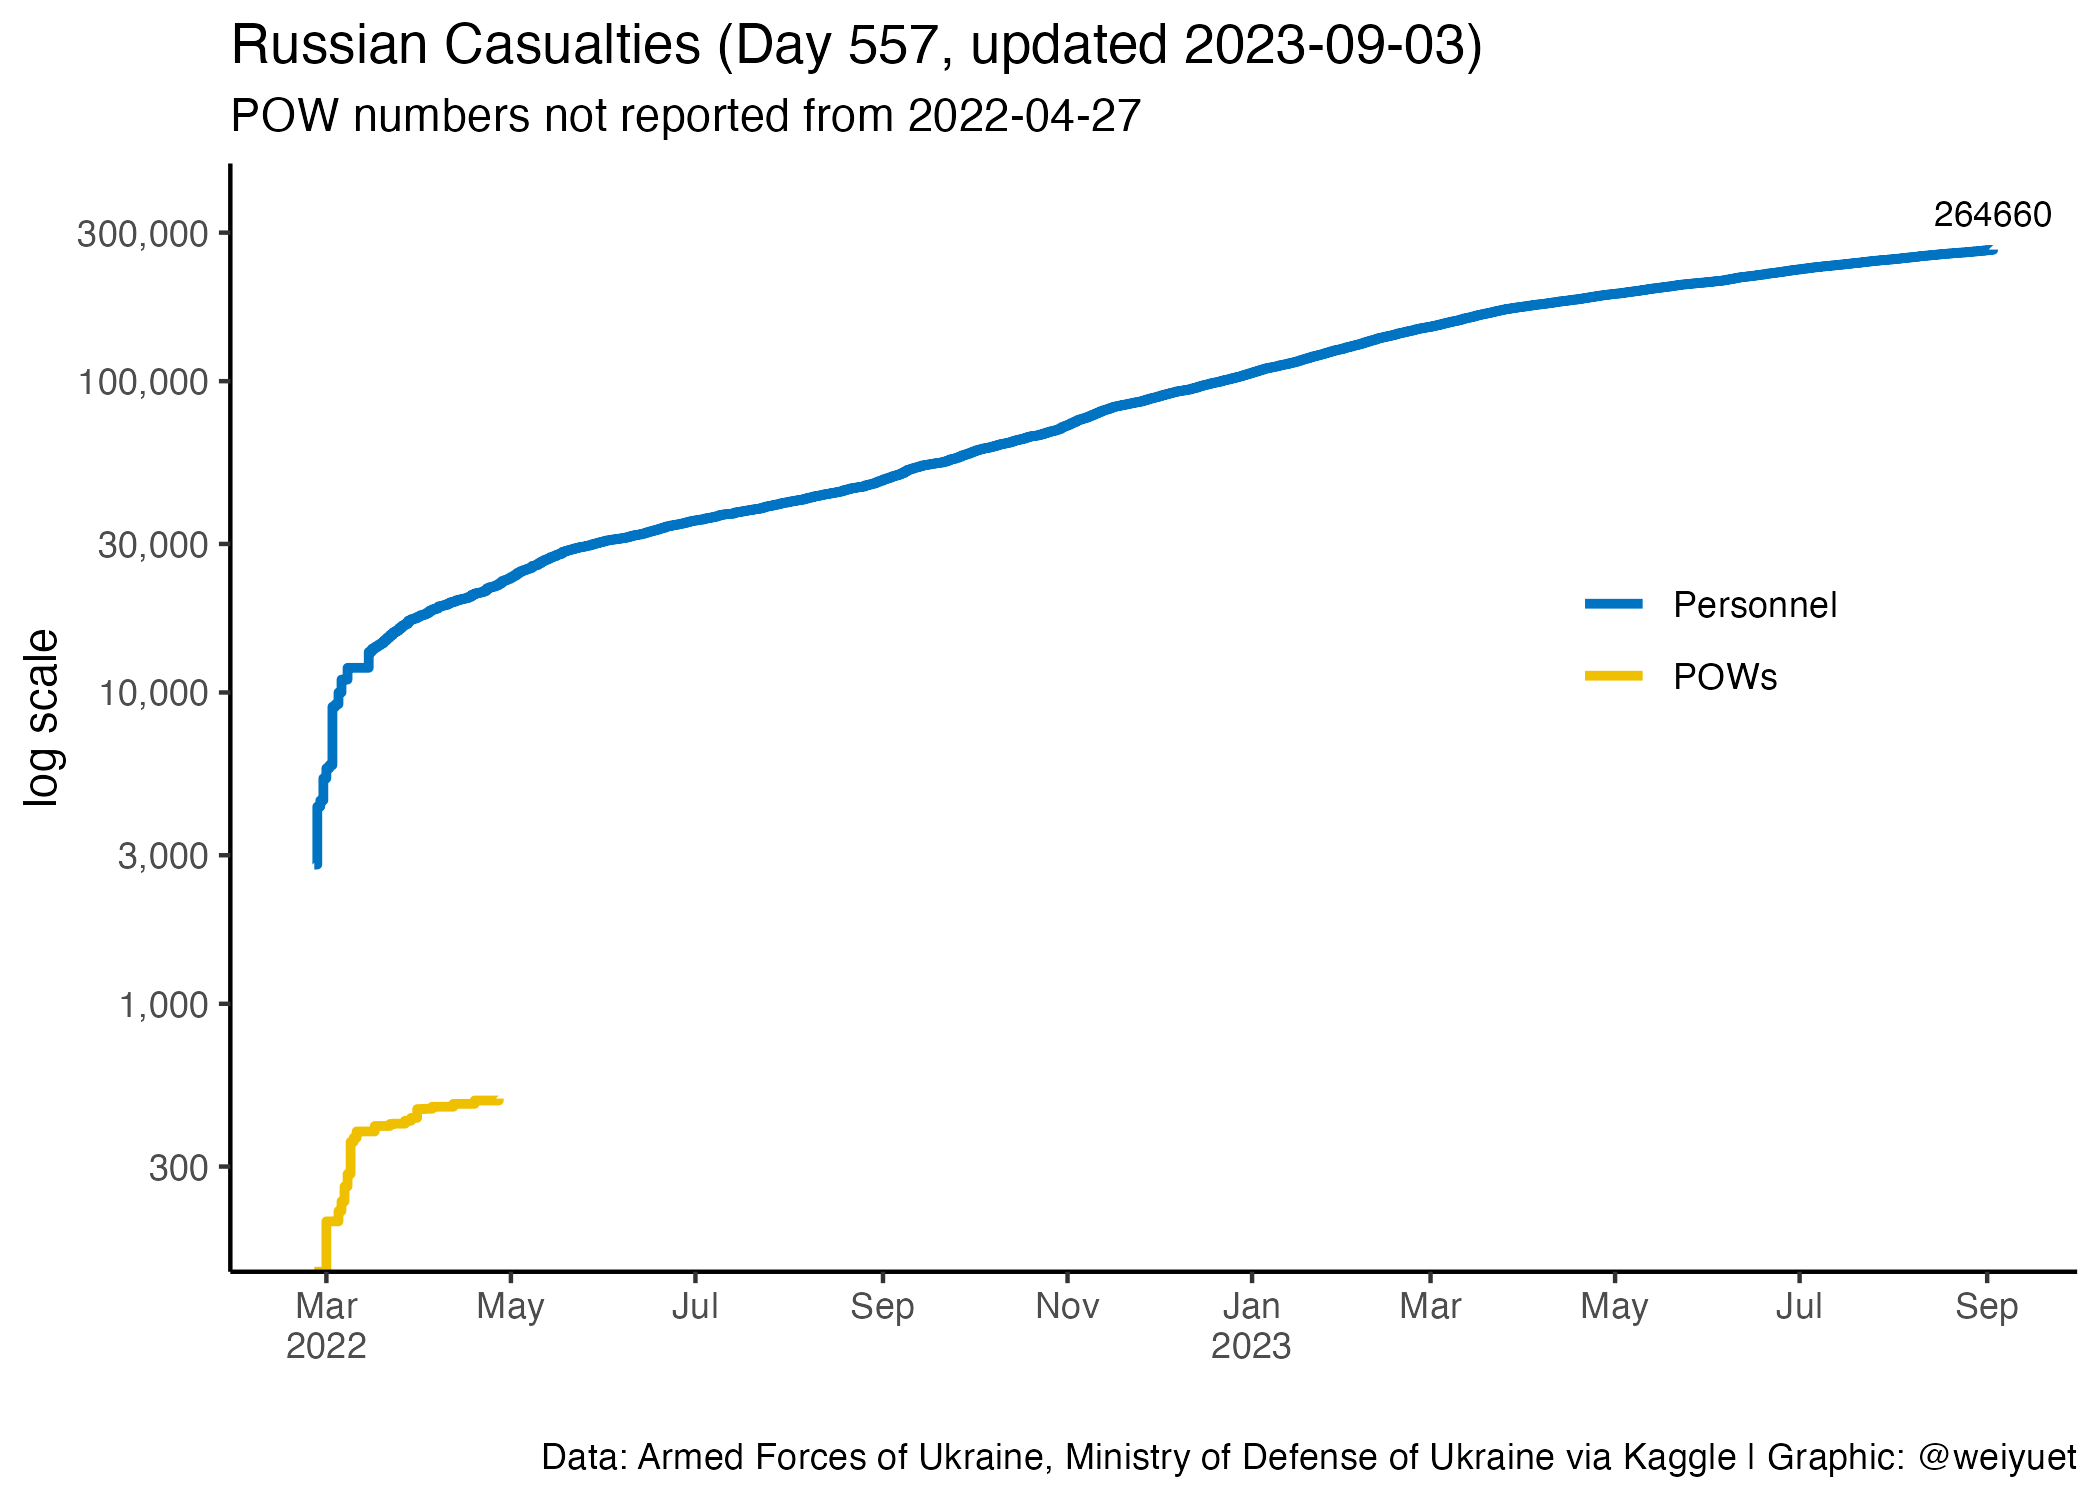
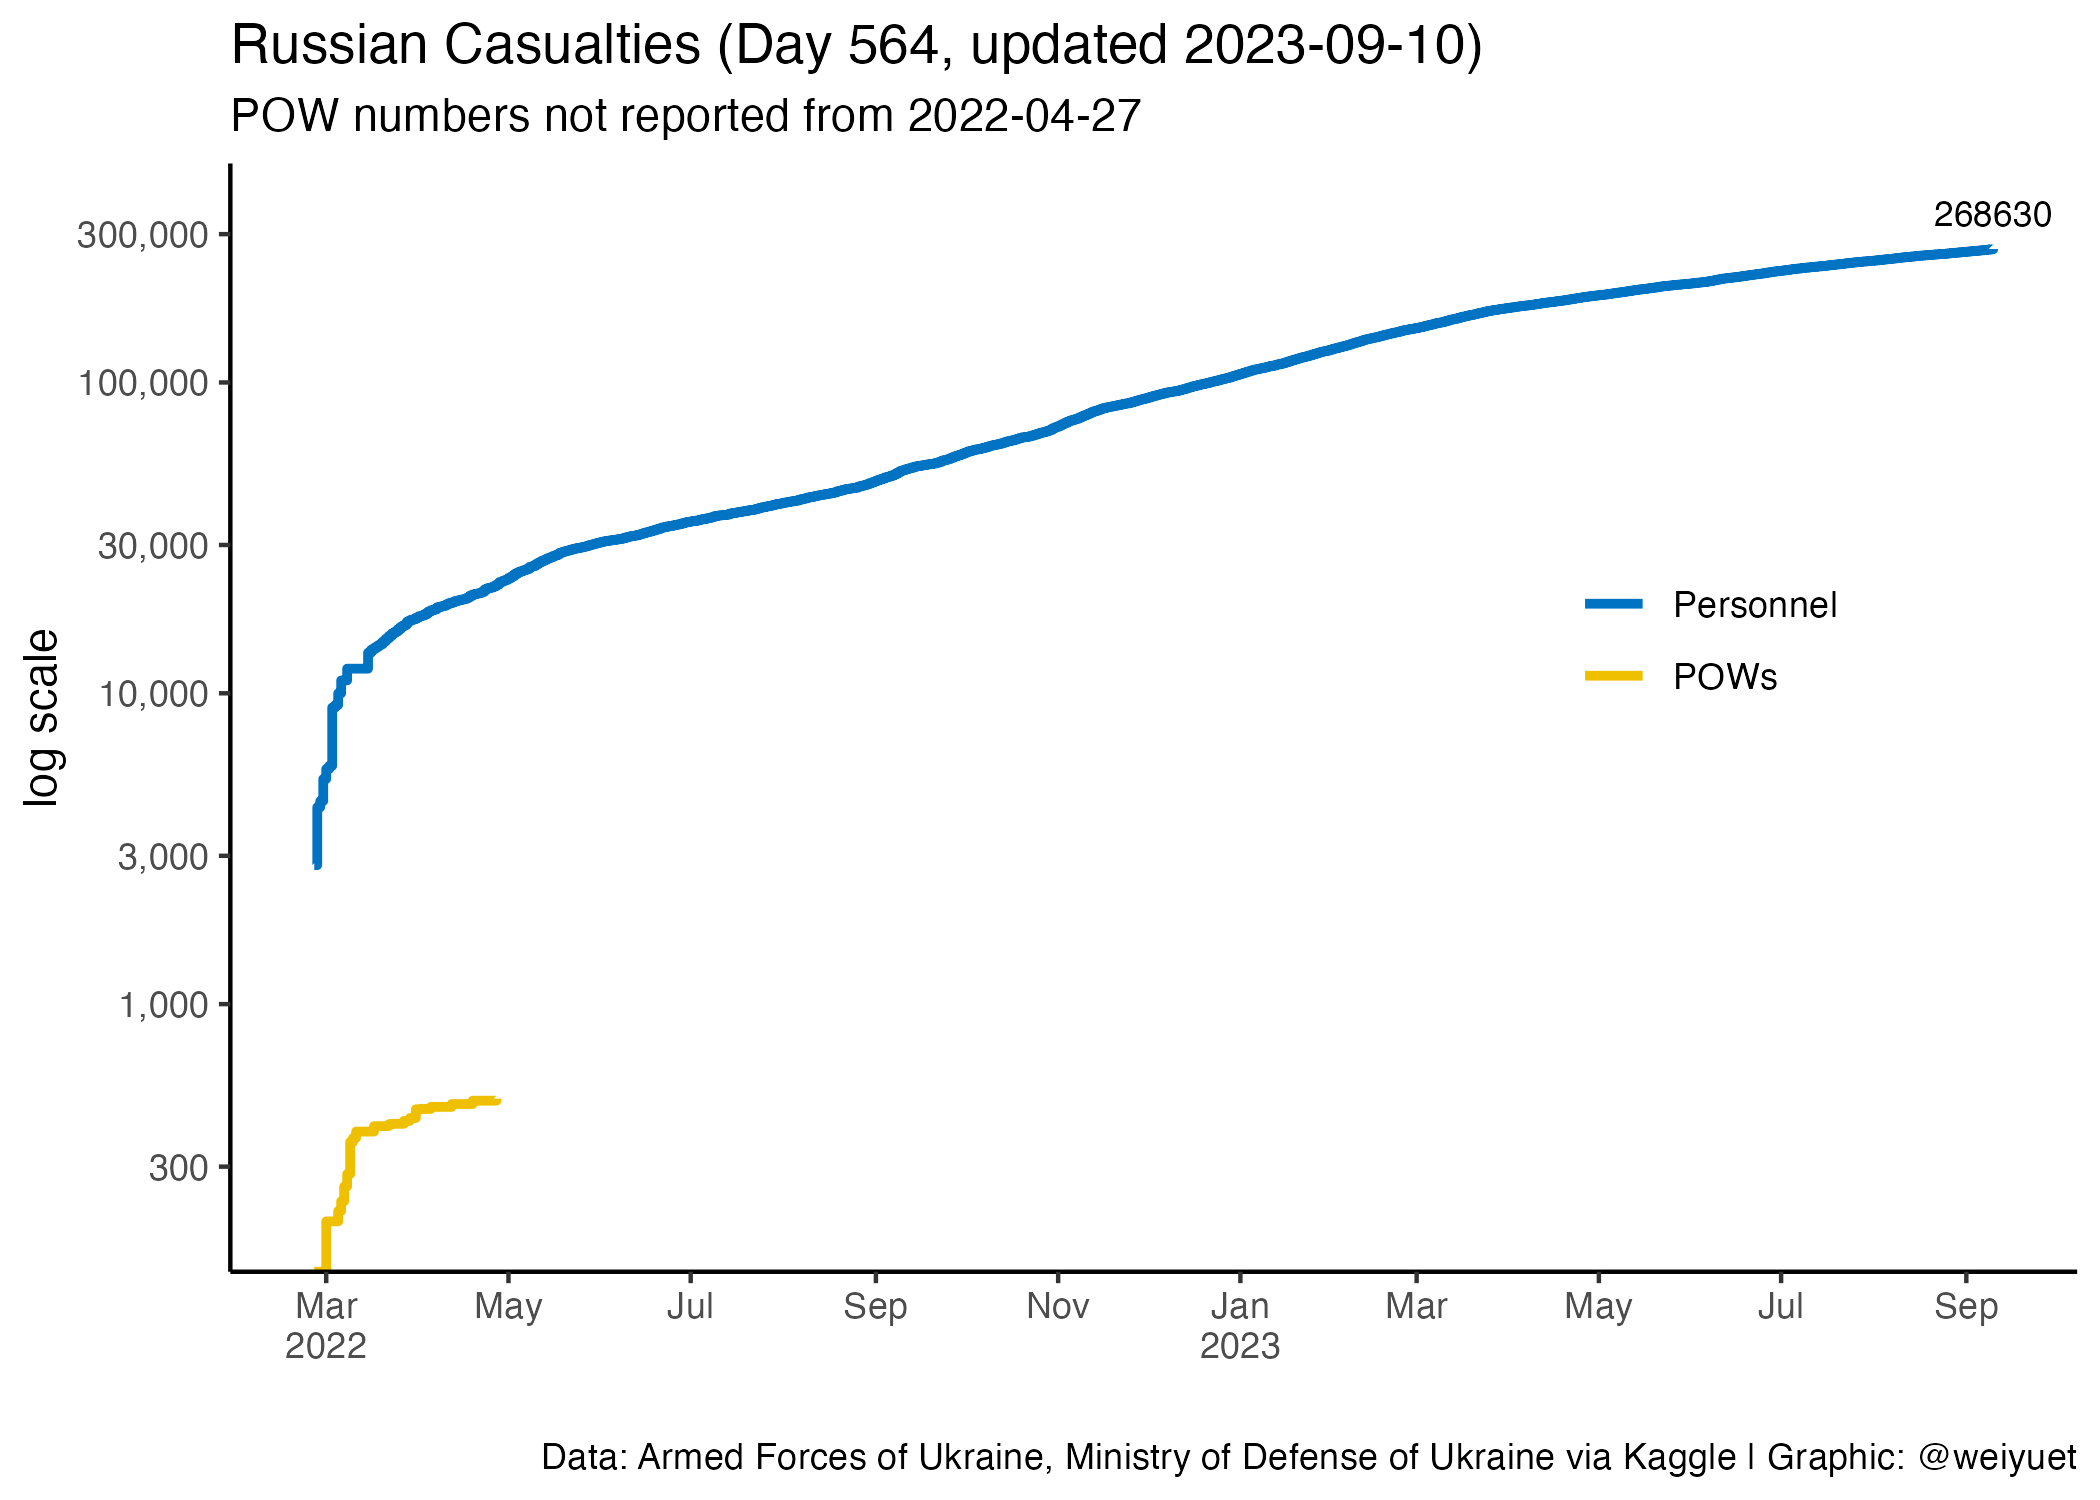
Updated 10 September

diff --git a/README.md b/README.md
@@ -6,7 +6,7 @@ Wong Wei Yuet 2022-05-26
 
   - War casualty data updated daily from [`Petro Ivanyuk's Kaggle`](https://www.kaggle.com/datasets/piterfm/2022-ukraine-russian-war). All data is official and put together by `Petro`
 
-Updated: 2023-09-03
+Updated: 2023-09-10
 
 ## Summary of Conflict
 
